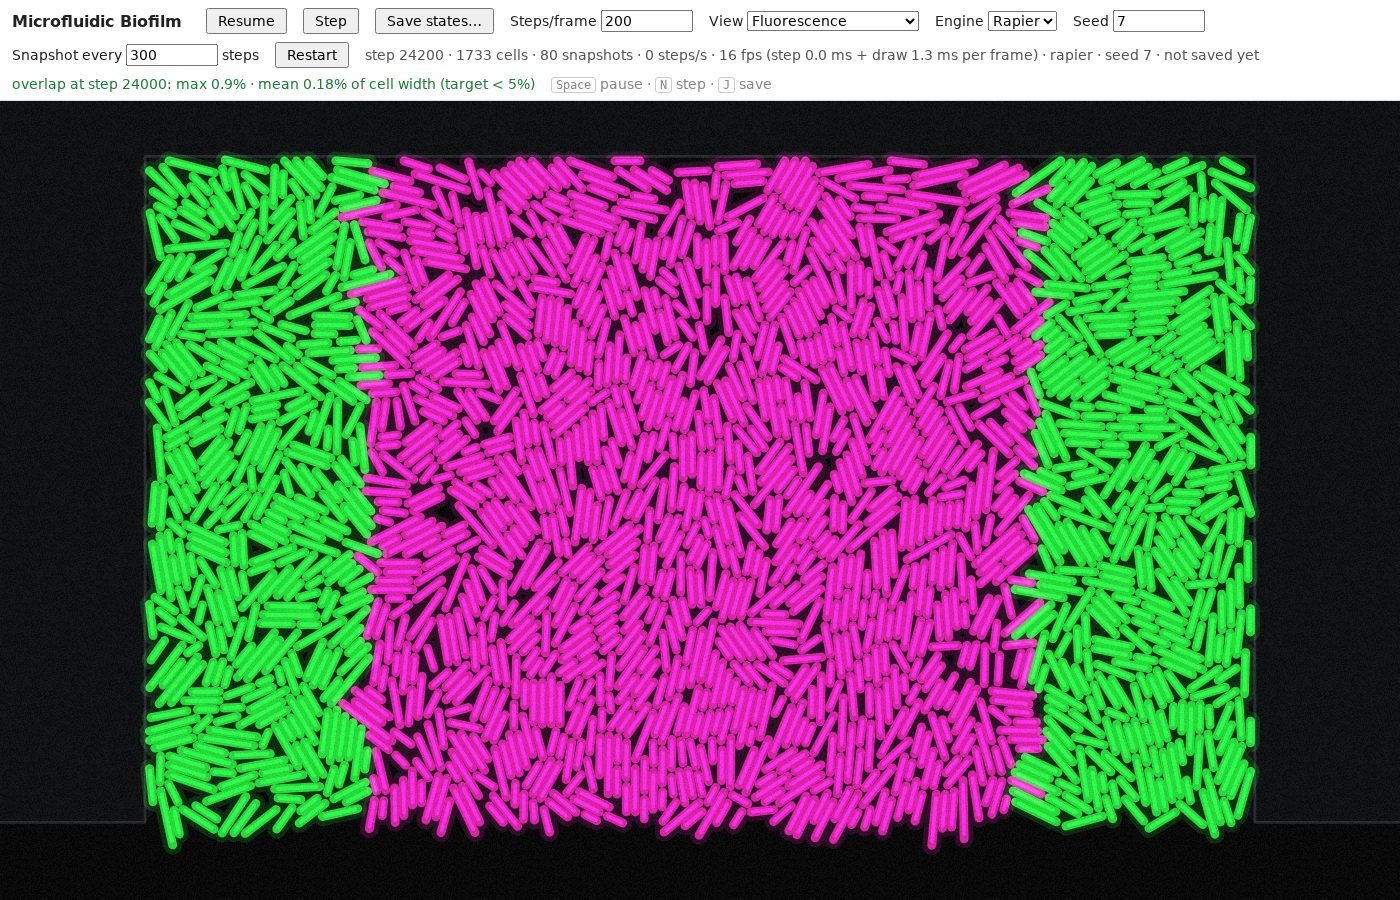
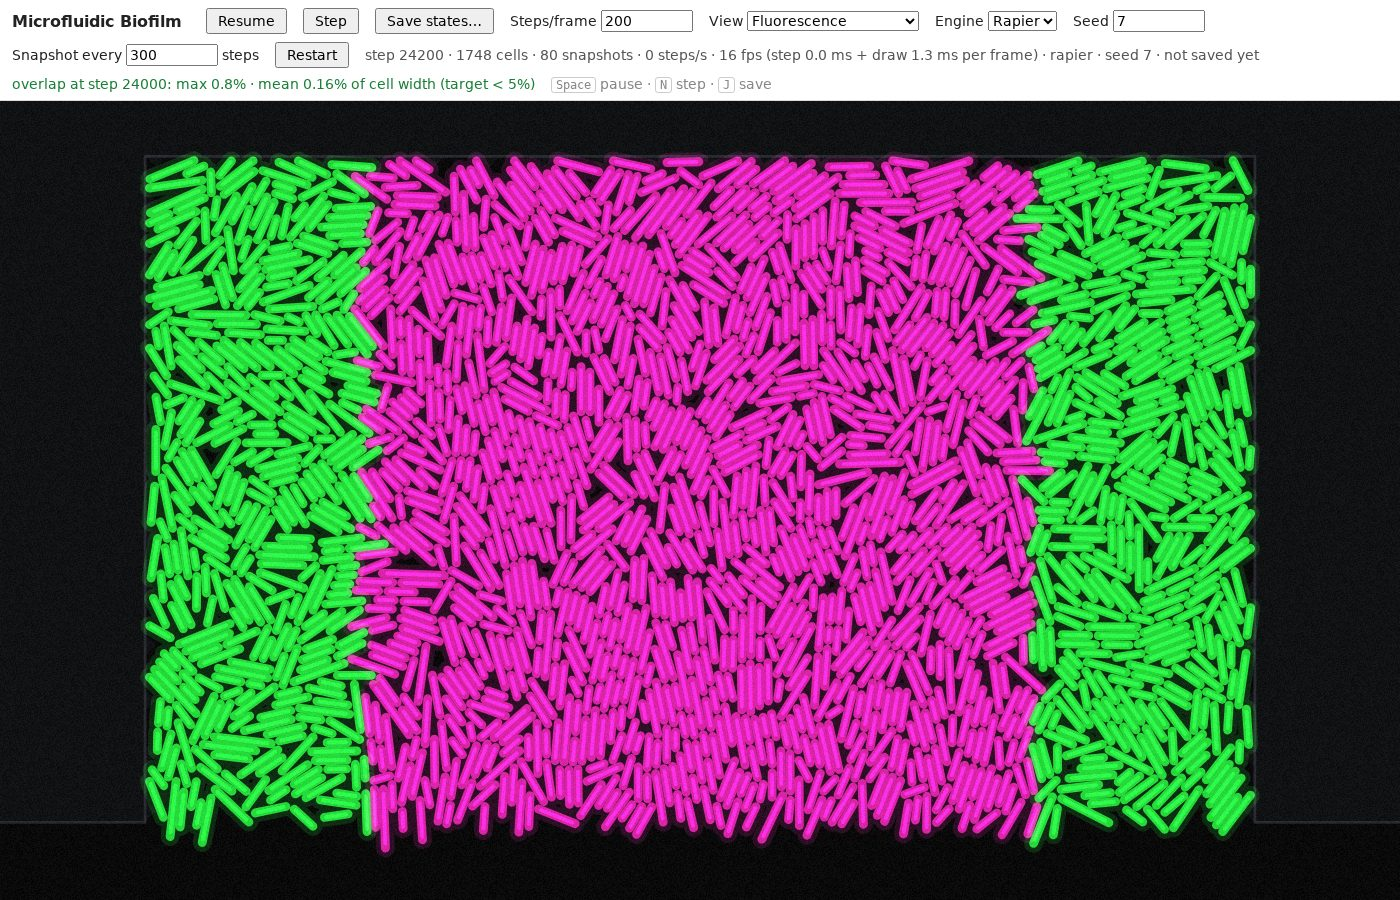
Overlap report: browser session and screenshots with the new anchor default

diff --git a/bacteria/reports/data/README.md b/bacteria/reports/data/README.md
@@ -8,14 +8,16 @@ width, and the locations of the deepest pair and the deepest wall contact. Summa
 
 | File | Engine and settings | Seed, steps |
 |---|---|---|
-| `overlap-rapier-default-seed{7,11,23}-120k.csv` | Rapier, final defaults: 12 iterations, 720 Hz, colliders replaced on growth + world rebuilt every 10 000 steps, all model fixes | 7 / 11 / 23, 120 000 |
-| `overlap-rapier-replace-norebuild-seed*-120k.csv` | as default but without world rebuilds (leaks memory; a run this way aborted at step ~231 500) | 7 / 11 / 23, 120 000 |
-| `overlap-rapier-flip-seed*-120k.csv` | as default but contacts refreshed by turning colliders by π (`rapierRefreshContacts=2`) | 7 / 11 / 23, 120 000 |
-| `overlap-rapier-anchorstretch{1,2}-seed*-120k.csv` | as default with `anchorMaxStretch` 1 or 2 (anchors let go of cells pulled farther away) | 7 / 11 / 23, 120 000 |
-| `overlap-rapier-i12-f480-seed*-120k.csv` | 12 iterations, 480 Hz (no rebuilds) | 7 / 11 / 23, 120 000 |
+| `overlap-rapier-anchorstretch2-seed*-120k.csv` | **Rapier, final defaults**: 12 iterations, 720 Hz, colliders replaced on growth + world rebuilt every 10 000 steps, all model fixes, anchors let go at 2 units (`anchorMaxStretch=2`) | 7 / 11 / 23, 120 000 |
+| `overlap-rapier-anchorstretch1-seed*-120k.csv` | as default, anchors let go at 1 unit | 7 / 11 / 23, 120 000 |
+| `overlap-rapier-anchorhold-seed{7,11,23}-120k.csv` | as default, but anchors never let go (`anchorMaxStretch=0`, the testbed's behaviour; the default until 14 November) | 7 / 11 / 23, 120 000 |
+| `overlap-rapier-anchorhold-seed7-600k.csv` | as above, the overnight long run | 7, 600 000 |
+| `overlap-rapier-replace-norebuild-seed*-120k.csv` | anchors never let go, and no world rebuilds (leaks memory; a run this way aborted at step ~231 500) | 7 / 11 / 23, 120 000 |
+| `overlap-rapier-flip-seed*-120k.csv` | anchors never let go, and contacts refreshed by turning colliders by π (`rapierRefreshContacts=2`) | 7 / 11 / 23, 120 000 |
+| `overlap-rapier-i12-f480-seed*-120k.csv` | 12 iterations, 480 Hz (no rebuilds; anchors never let go, as in all rows below) | 7 / 11 / 23, 120 000 |
 | `overlap-rapier-i8-f480-seed*-120k.csv` | 8 iterations, 480 Hz (no rebuilds) | 7 / 11 / 23, 120 000 |
-| `overlap-box2d-seed7-30k.csv` | Box2D, current defaults (centred division, drag clamp, 0.8x cells) | 7, 30 000 |
+| `overlap-box2d-seed7-30k.csv` | Box2D, centred division, drag clamp, 0.8x cells, anchors never let go | 7, 30 000 |
 | `overlap-early-rapier4it30hz-contactfix-seed7-30k.csv` | Rapier's own solver defaults (4 iterations, 30 Hz) with the contact fix, before the triangle, drag-clamp and division fixes | 7, 30 000 |
 | `overlap-early-rapier4it30hz-nocontactfix-seed7-22k.csv` | as above, without the contact fix (resizing colliders in place) | 7, ~22 000 |
 
-The 600 000-step run's log is `overlap-rapier-default-seed7-600k.csv`.
+<!-- NEW-RUNS -->

diff --git a/bacteria/reports/overlap-report.md b/bacteria/reports/overlap-report.md
@@ -133,4 +133,27 @@ and between the small wall triangles, where the colony's pressure ends. Occasion
 axis still reaches a wall line (worst 46–50% in two of the three seeds). With anchors that never
 let go the median was 12–15%.
 
-<!-- BROWSER -->
+## Browser screenshots
+
+A 60 000-step session in headless Chrome with the final defaults (`index.html?seed=7`, 200 steps
+per frame; the page confirmed `anchorMaxStretch=2`), paused every ~6000 steps for screenshots:
+the whole chamber in the phase-contrast and diagnostic views, and diagnostic close-ups (~18 × 11
+units) around the deepest pair at the last snapshot and of the top-left corner. In the diagnostic
+view each cell has its true capsule outline, and anchors are black squares with a line to their
+cell. Pairs deeper than 1% of the width are drawn orange, deeper than the target red. At the
+close-up zoom one pixel is ~0.013 units, so a 5% overlap (0.04) would show as ~3 pixels of
+outline crossing a neighbour.
+
+Readouts at each pause (overlap at the last snapshot; `screenshots/browser-session.log`): max
+0.81–1.74% at every pause from step 6400 to 60 400; mean 0.16–0.21%; deepest wall contact
+0.4–16%. There were no red pairs and no page errors, and the images show no visible overlap. The
+anchor lines are now all short (≤ 2 units). The session also downloaded the states through the
+page's own `download()`: 17.7 MB, 206 snapshots, 10 942 cell ids, valid `LowRes.json`.
+
+| | |
+|---|---|
+| ![phase, step 12 200](screenshots/step-012200-phase.jpg) | ![diagnostic, step 12 200](screenshots/step-012200-diagnostic.jpg) |
+| ![phase, step 60 400](screenshots/step-060400-phase.jpg) | ![diagnostic, step 60 400](screenshots/step-060400-diagnostic.jpg) |
+| ![close-up around the deepest pair, step 24 400](screenshots/step-024400-zoom-deepest.jpg) | ![close-up of the top-left corner, step 36 400](screenshots/step-036400-zoom-corner.jpg) |
+| ![close-up around the deepest pair, step 60 400](screenshots/step-060400-zoom-deepest.jpg) | ![close-up of the top-left corner, step 60 400](screenshots/step-060400-zoom-corner.jpg) |
+| ![fluorescence view, step 24 000](screenshots/step-024000-fluorescence.jpg) | ![the page with controls and overlap readout](screenshots/step-024000-fluorescence-page.jpg) |
